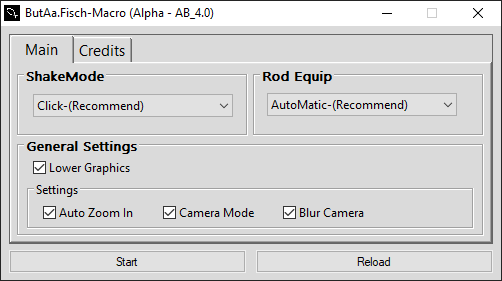
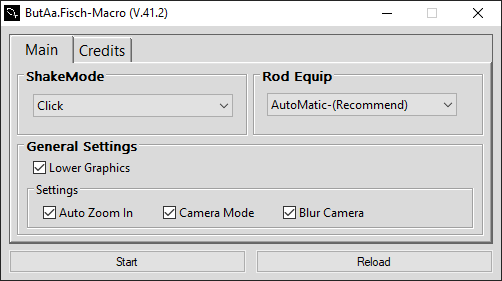
V.41.2

Changed region(s): [[0.239, 0.0285, 0.4482, 0.0854], [0.1195, 0.3416, 0.2988, 0.3986]]

diff --git a/README.md b/README.md
@@ -1,5 +1,10 @@
+> [!Note]
+> I will stop the Update macro and there will be rare updates in the future, because I am no longer interested in the game "Fisch". Version ButAa.Fisch-Macro(V.41.2) may be the final version. Have a nice day!!
+
+
 <p align="center">
-    <img src="https://raw.githubusercontent.com/K-M19/ButAa-Fisch-Macro/refs/heads/main/IMG/IMG.png" width="450">
+    <img src="https://raw.githubusercontent.com/K-M19/ButAa-Fisch-Macro/refs/heads/main/IMG/W-Theme.png#gh-dark-mode-only" width="420">
+    <img src="https://raw.githubusercontent.com/K-M19/ButAa-Fisch-Macro/refs/heads/main/IMG/B-Theme.png#gh-light-mode-only" width="420">
 </p>
 
 <div align="center">
@@ -17,7 +22,7 @@
 [repo-latest]:   https://github.com/K-M19/ButAa-Fisch-Macro/releases/latest
 
 ----
-
+###
 - The macro is simply a tool for idle fishing; it cannot replace human precision.  
 - The macro is currently in beta, in its Dev version.  
 - Any risks involved are your responsibility.  
@@ -46,8 +51,6 @@
 
 ## Recommended Rods/Enchanting
 *(Here’s a suggested list while I work on integrating API usage. Feel free to follow it if you want.)*
-- **Steady** | Resilient 
-- **Mythical** | Resilient  
 - **Aurora** | Resilient  
 - **Krampus** | Resilient
 - **Trident** | Resilient or Hasty  
@@ -58,7 +61,7 @@
 - **No-Life Rod** | Any Enchant ( :L Why do you even need a macro for this? )  
 - **Forgotten Fang** | Any Enchant ( :L Why do you even need a macro for this? )  
 
-## FOV Menu (Version 4.0)
+## FOV Menu
 <img src="https://raw.githubusercontent.com/K-M19/ButAa-Fisch-Macro/refs/heads/main/IMG/1.png">
 
 ## Download and Usage
@@ -73,8 +76,8 @@
 
 #### Mode
 - **Click**: I recommend you to use this mode to do it because it is safe and less error prone.
-- **UI-Navigation**: I do not recommend using this mode because it is error prone(Please enable "UI Navigation Toggle" in roblox settings before using).
-- **Shake only**: If you just want to Shake and fish by yourself.
+- **Navigation**: I do not recommend using this mode because it is error prone(Please enable "UI Navigation Toggle" in roblox settings before using).
+- **Shake**: If you just want to Shake and fish by yourself.
 
 #### Steps to Take
 - Turn off "Shift Lock" in roblox settings

diff --git a/Update.md b/Update.md
@@ -1,3 +1,7 @@
+## Update Log (V.41.2)
+- Fixed Shake Delay
+- Remove Rods mode (Steady, Mythical)
+
 ## Update Log (Alpha 4.1.0) & (Legacy 3.4.0)
 - Add **Heaven's** | Resilient or Hasty 
 - Upgrade Fisheye
